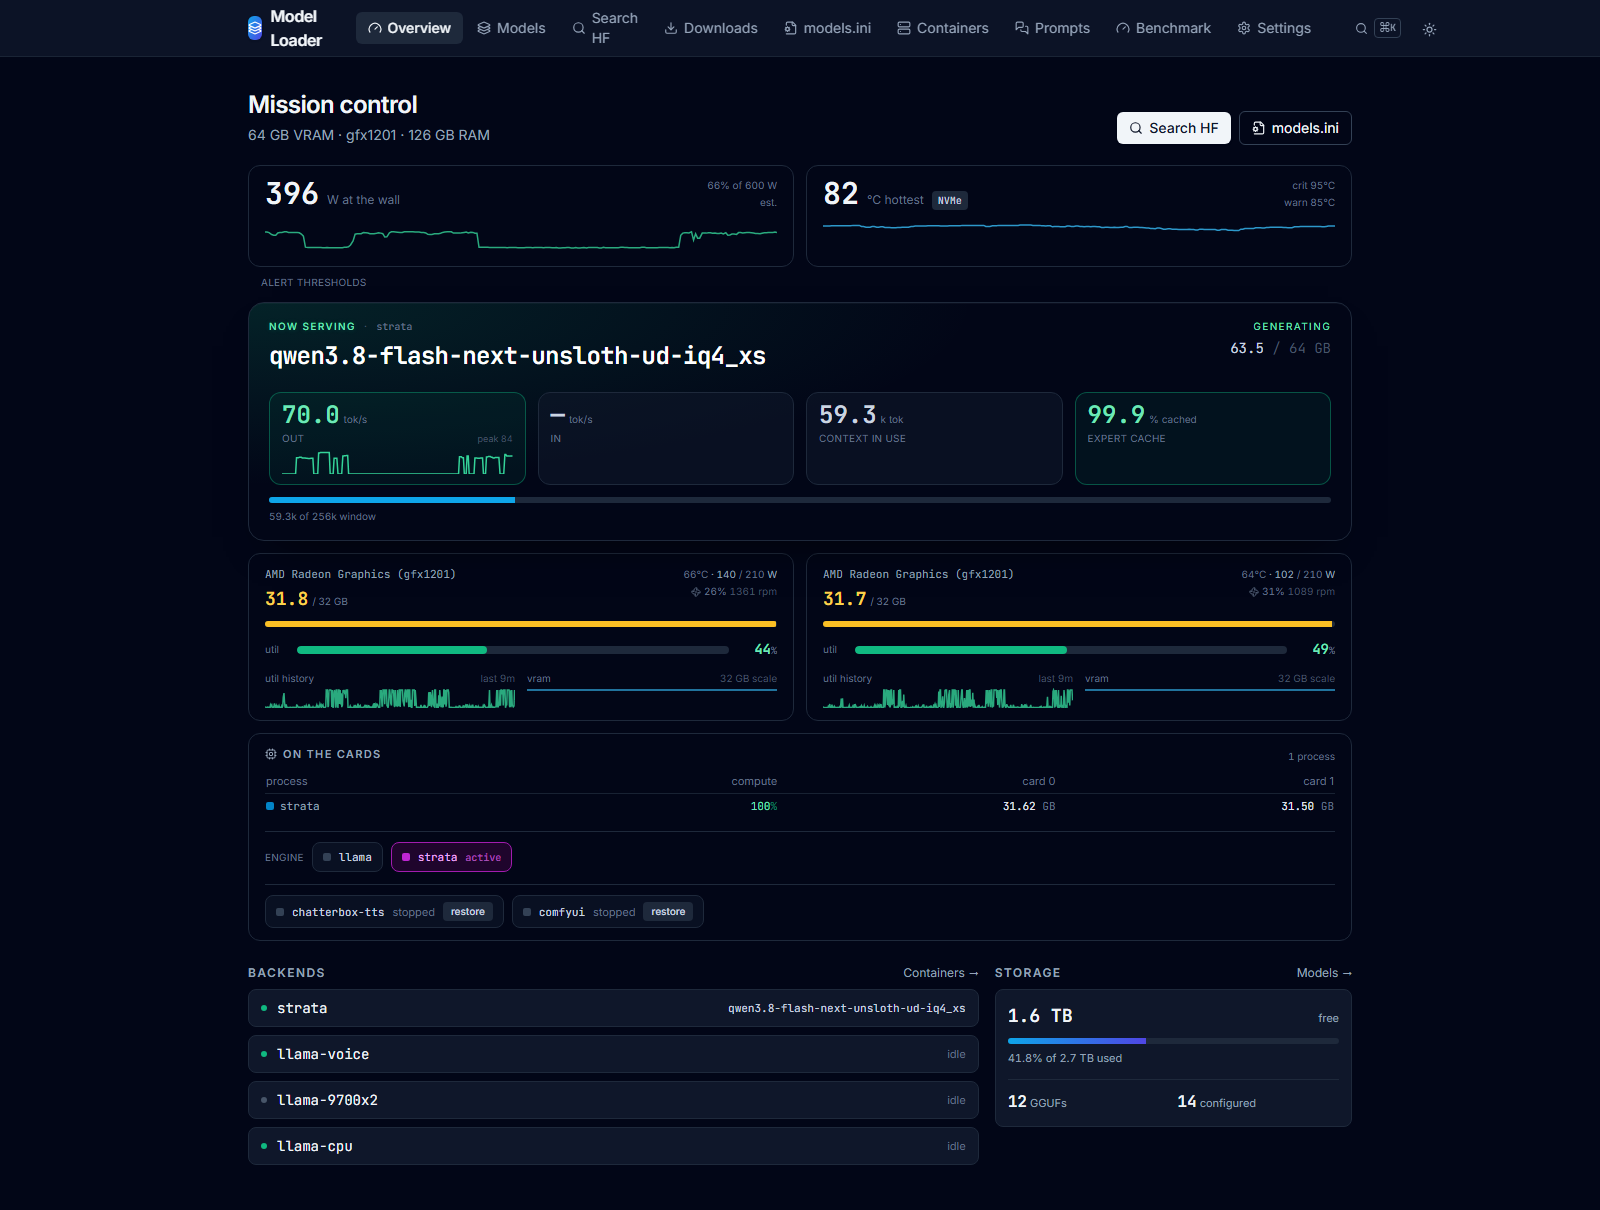
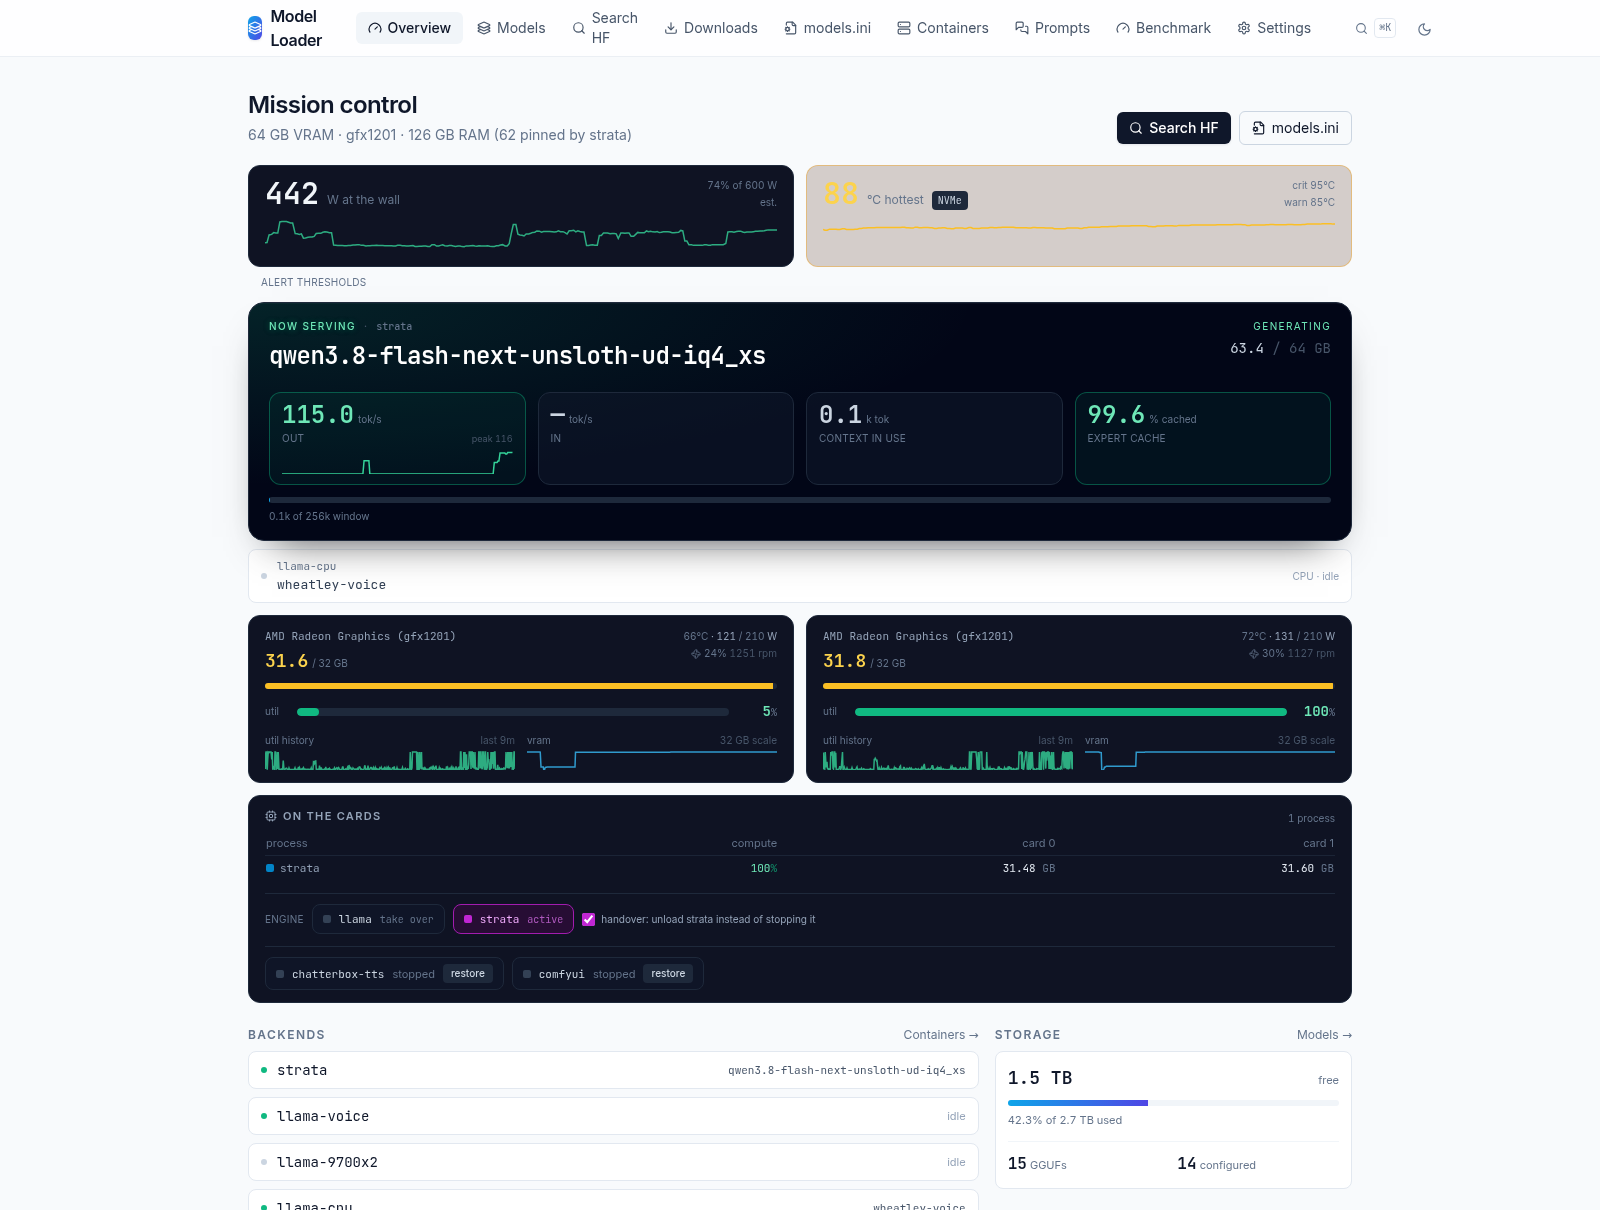
Live verification done; refresh the plan status and the overview shot
Checks 1-6 green on the real box, including the two share bugs and the
poll-reset checkbox the unit tests waved through. The overview
screenshot now shows the Engine row, the Strata-pinned RAM line and a
generation in flight; alt text adjusted to match.

diff --git a/README.md b/README.md
@@ -2,7 +2,7 @@
 
 A browser UI for managing llama.cpp GGUF models and containers on a personal homelab box. FastAPI + HTMX + Alpine + Tailwind, no build step, one Docker container.
 
-![The Model Loader overview page: estimated power at the wall and the hottest device in the box, each with a sparkline drawn against a configured ceiling; then the model being served — here Strata's qwen3.8-flash-next-unsloth-ud-iq4_xs, marked GENERATING — with four readouts: tokens/sec out with its own sparkline, tokens/sec in, how much of the 256k context window is in use, and this engine's expert cache hit rate at 99.9%; then one panel per GPU breaking VRAM down against utilisation, temperature, power and fan speed; then "on the cards", listing every process holding a card with its compute occupancy and per-card VRAM, an Engine row for handing the GPUs between llama.cpp and a second engine, and eject/restore chips for GPU tenants that are not backends; then backend and storage summaries](docs/model_loader.png)
+![The Model Loader overview page: estimated power at the wall and the hottest device in the box, each with a sparkline drawn against a configured ceiling; then the model being served — here Strata's qwen3.8-flash-next-unsloth-ud-iq4_xs, marked GENERATING — with four readouts: tokens/sec out with its own sparkline, tokens/sec in, how much of the 256k context window is in use, and this engine's expert cache hit rate at 99.8%, plus the host RAM line naming the expert arena Strata pins; then one panel per GPU breaking VRAM down against utilisation, temperature, power and fan speed; then "on the cards", listing every process holding a card with its compute occupancy and per-card VRAM, an Engine row for handing the GPUs between llama.cpp and a second engine, and eject/restore chips for GPU tenants that are not backends; then backend and storage summaries](docs/model_loader.png)
 
 ## What it does
 

diff --git a/docs/STRATA_COEXISTENCE.md b/docs/STRATA_COEXISTENCE.md
@@ -5,10 +5,15 @@ The design and build order for letting Strata, llama.cpp and declared GPU tenant
 `feat/strata-coexistence`; `main` stays deployable and gets no commits until the feature
 is verified on the live box. Nothing is pushed until it is said so out loud.
 
-**Status: all seven phases built on the branch (commits 4fb67c6..84f7c70), unit-tested
-against fake Strata servers and fake docker objects. Live verification on this box is
-the open item — see Ground rules for why the agent cannot exercise the control paths
-itself.**
+**Status: built, unit-tested, and verified live on this box (checks 1–6 green: yield,
+time-share save, unload/auto-reload, single-card pin, share, soft and hard engine
+switch). Live verification found three bugs that every unit test had passed — the
+share form never sent `share=1` (HTMX posts the form's inputs; it had none, so the
+click was a hard take-over wearing a green badge), the VRAM drain waited sixty seconds
+in share mode for Strata's memory to drop, which is the one thing share guarantees it
+won't, and the 1 s strip poll re-checked the handover checkbox every swap. All three
+fixed and re-verified; the lesson is that a stubbed function is exactly the one that
+lies. Check 7 (the `ai-lab.openwebui` label) waits on the next Strata recreate.**
 
 ## Why the current integration stops short
 
